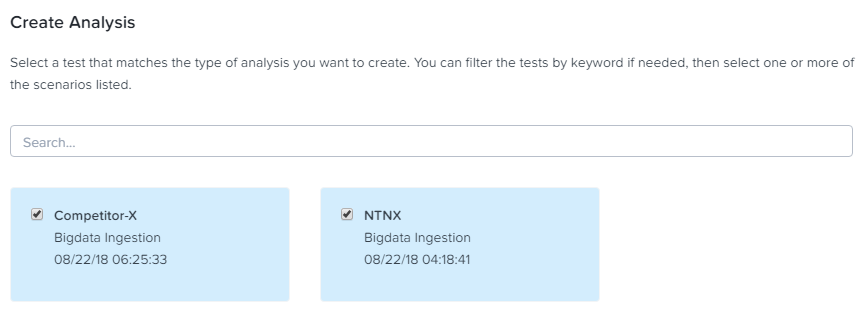
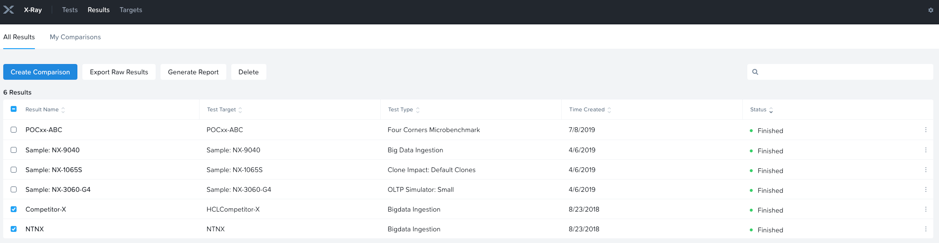
report update

diff --git a/xray/xray.rst b/xray/xray.rst
@@ -259,7 +259,7 @@ Download the following exported X-Ray test results:
 - :download:`Competitor Big Data Ingest Results<xray-big-data-competitor.zip>`
 - :download:`Nutanix Big Data Ingest Results<xray-big-data-nutanix.zip>`
 
-Select :fa:`cog` **> Import Test Results** from the navigation bar.
+Select :fa:`cog` **> Import Test Result Bundle** from the navigation bar.
 
 Click **Choose File** and select the Nutanix test results .zip file previously downloaded. Click **Import**.
 
@@ -267,11 +267,9 @@ Click **Choose File** and select the Nutanix test results .zip file previously d
 
 Repeat to import the Competitor test results .zip file.
 
-Select **Analyses** from the navigation bar and click **Create Analysis**.
+Select **Result** from the navigation bar and click **All Result**.
 
-.. figure:: images/24.png
-
-Select the 2 **BigData Ingestion** results and click **Create**.
+Select the 2 **BigData Ingestion** results and click **Create Comparison**.
 
 .. figure:: images/25.png
 
